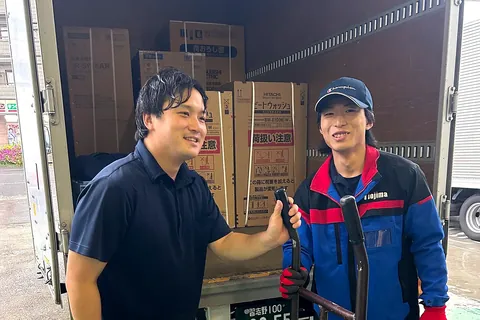
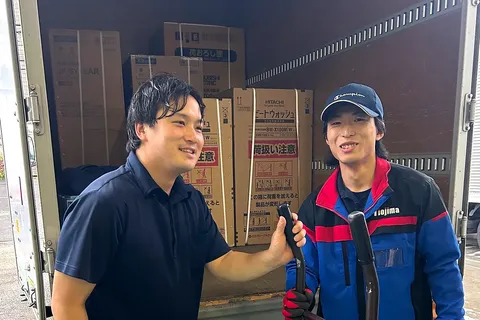
埼玉4tの求人に「仕事の様子」（自社の実写3枚）・L5の写真は車のナンバーを切り落とした版に
Claude-Session: https://claude.ai/code/session_01XJKHtMYtauQobhYax7W4fP

diff --git a/recruit-saitama.html b/recruit-saitama.html
@@ -134,6 +134,12 @@
 @media (prefers-reduced-motion:reduce){*,*::before,*::after{transition:none!important;animation:none!important;scroll-behavior:auto!important}}
 /* 2026-10-06 募集要項の最終更新日（ダッシュボードの改善案・おでん承認） */
 .req-upd{margin:8px 0 0;font-size:13px;color:#5b6470;text-align:right}
+  /* 2026-10-23 仕事の様子（自社の実写3枚）：他社の上位求人は写真5枚、このページは0枚だった */
+  .shots{ display:grid; grid-template-columns:1fr 1fr; gap:14px; margin:16px 0 8px; }
+  .shots figure{ margin:0; }
+  .shots figure:first-child{ grid-column:1 / -1; }
+  .shots img{ display:block; width:100%; height:auto; aspect-ratio:3/2; object-fit:cover; background:var(--rule); }
+  .shots figcaption{ margin-top:6px; font-size:14px; line-height:1.7; color:var(--gray); text-wrap:pretty; word-break:auto-phrase; }
 </style>
 <script type="application/ld+json">{"@context":"https://schema.org","@type":"JobPosting","identifier":{"@type":"PropertyValue","name":"有限会社エイト流通サービス","value":"eightds-saitama-4t"},"title":"4トントラックのドライバー（家電の配送・設置）","description":"<p>4トントラックを運転して、家電量販店で購入された冷蔵庫・洗濯機・テレビ・エアコンをお客様のご自宅へお届けし、設置します。いつも2人1組で伺います。未経験の方も歓迎です。</p><p>免許：中型・準中型免許をお持ちの方は優遇します。お持ちでない方も応募でき、入社してから取れます。</p><p>給与：月給35万円。20日締め・当月末払い。賞与年3回（7月・12月・3月）。昇給は随時。</p><p>勤務時間：8:00〜17:30（休憩1時間）、残業なし。休日：週休2日制（土日に出られる方は優遇します）。</p><p>勤務地：埼玉営業所（埼玉県新座市野火止2-11-25・新座駅から車で10分）。浦安本社との間の異動はありません。</p><p>待遇：社会保険完備／生命保険／家族手当／交通費支給（規定内）／制服貸与／遠方から引っ越して来る方には、引越し費用を支援します。試用期間なし。</p><p>応募：公式LINEまたは電話（047-381-0142）。履歴書はいりません。話を聞くだけでも大丈夫です。</p>","datePosted":"2026-10-15","validThrough":"2026-12-31T23:59:59+09:00","directApply":false,"employmentType":"FULL_TIME","industry":"家電の配送・設置・電気工事","hiringOrganization":{"@type":"Organization","name":"有限会社エイト流通サービス","sameAs":"https://eight-ds.com/","logo":"https://eight-ds.com/img/og2.jpg"},"jobLocation":{"@type":"Place","address":{"@type":"PostalAddress","postalCode":"352-0011","addressRegion":"埼玉県","addressLocality":"新座市","streetAddress":"野火止2-11-25","addressCountry":"JP"}},"baseSalary":{"@type":"MonetaryAmount","currency":"JPY","value":{"@type":"QuantitativeValue","unitText":"MONTH","value":350000}},"workHours":"8:00〜17:30（休憩1時間）／残業なし","url":"https://eight-ds.com/recruit-saitama.html","experienceRequirements":"no requirements"}</script>
 <script type="application/ld+json">{"@context":"https://schema.org","@type":"BreadcrumbList","itemListElement":[{"@type":"ListItem","position":1,"name":"トップ","item":"https://eight-ds.com/"},{"@type":"ListItem","position":2,"name":"採用情報","item":"https://eight-ds.com/recruit.html"},{"@type":"ListItem","position":3,"name":"4トントラックのドライバー（埼玉営業所）の募集要項","item":"https://eight-ds.com/recruit-saitama.html"}]}</script>
@@ -183,6 +189,13 @@
   <p><strong>月給35万円の正社員です。</strong>賞与は年3回。トラックを戻して報告したら、その日の仕事は終わりです（残業なし）。</p>
   <p><strong>免許は入社してからでも大丈夫です。</strong>中型・準中型免許をお持ちの方は優遇します。</p>
   <p><strong>土日に出られる方は優遇します。</strong>休日は週休2日制です。</p>
+
+  <h2 id="yousu">仕事の様子</h2>
+  <div class="shots">
+    <figure><img src="img/L4_台車.webp" srcset="img/w800/L4_台車.webp 800w, img/L4_台車.webp 1800w" sizes="(max-width:720px) 100vw, 680px" alt="先輩と2人で、洗濯機をトラックから降ろすところ" loading="lazy" decoding="async" width="1800" height="1200"><figcaption>いつも2人1組です。重い物も2人で運びます。</figcaption></figure>
+    <figure><img src="img/L5_受付_nc.webp" srcset="img/w800/L5_受付_nc.webp 800w, img/L5_受付_nc.webp 1665w" sizes="(max-width:720px) 50vw, 330px" alt="トラックの荷台で話す配送スタッフ2人" loading="lazy" decoding="async" width="1665" height="1110"><figcaption>荷台で話す配送スタッフ。</figcaption></figure>
+    <figure><img src="img/L2_トラック列.webp" srcset="img/w800/L2_トラック列.webp 800w, img/L2_トラック列.webp 1800w" sizes="(max-width:720px) 50vw, 330px" alt="トラックの前に並ぶ配送スタッフ4人" loading="lazy" decoding="async" width="1800" height="1200"><figcaption>配送スタッフ（浦安本社）。</figcaption></figure>
+  </div>
 
   <h2 id="niiza">埼玉営業所<span class="nw">（埼玉県新座市）</span></h2>
   <p>新座市<span class="nw">野火止2-11-25</span>。<span class="nw">新座駅から車で10分です。</span><span class="nw">社員8人が働いています。</span><br>

diff --git a/recruit.html b/recruit.html
@@ -264,7 +264,7 @@
     <h2 data-rise="0"><span class="nw">27人のうち24人が</span><span class="nw">未経験から。</span></h2>
     
     <div class="s2band-in" data-rise="0">
-      <img src="img/L5_受付.webp" alt="トラックの荷台の前で笑い合う2人" loading="lazy" decoding="async" width="1800" height="1200">
+      <img src="img/L5_受付_nc.webp" alt="トラックの荷台の前で笑い合う2人" loading="lazy" decoding="async" width="1665" height="1110">
     </div>
     <p class="s2band-cap" data-rise="0">朝から夕方まで、ずっと<span class="nw">2人1組</span>です。</p>
   </div>
